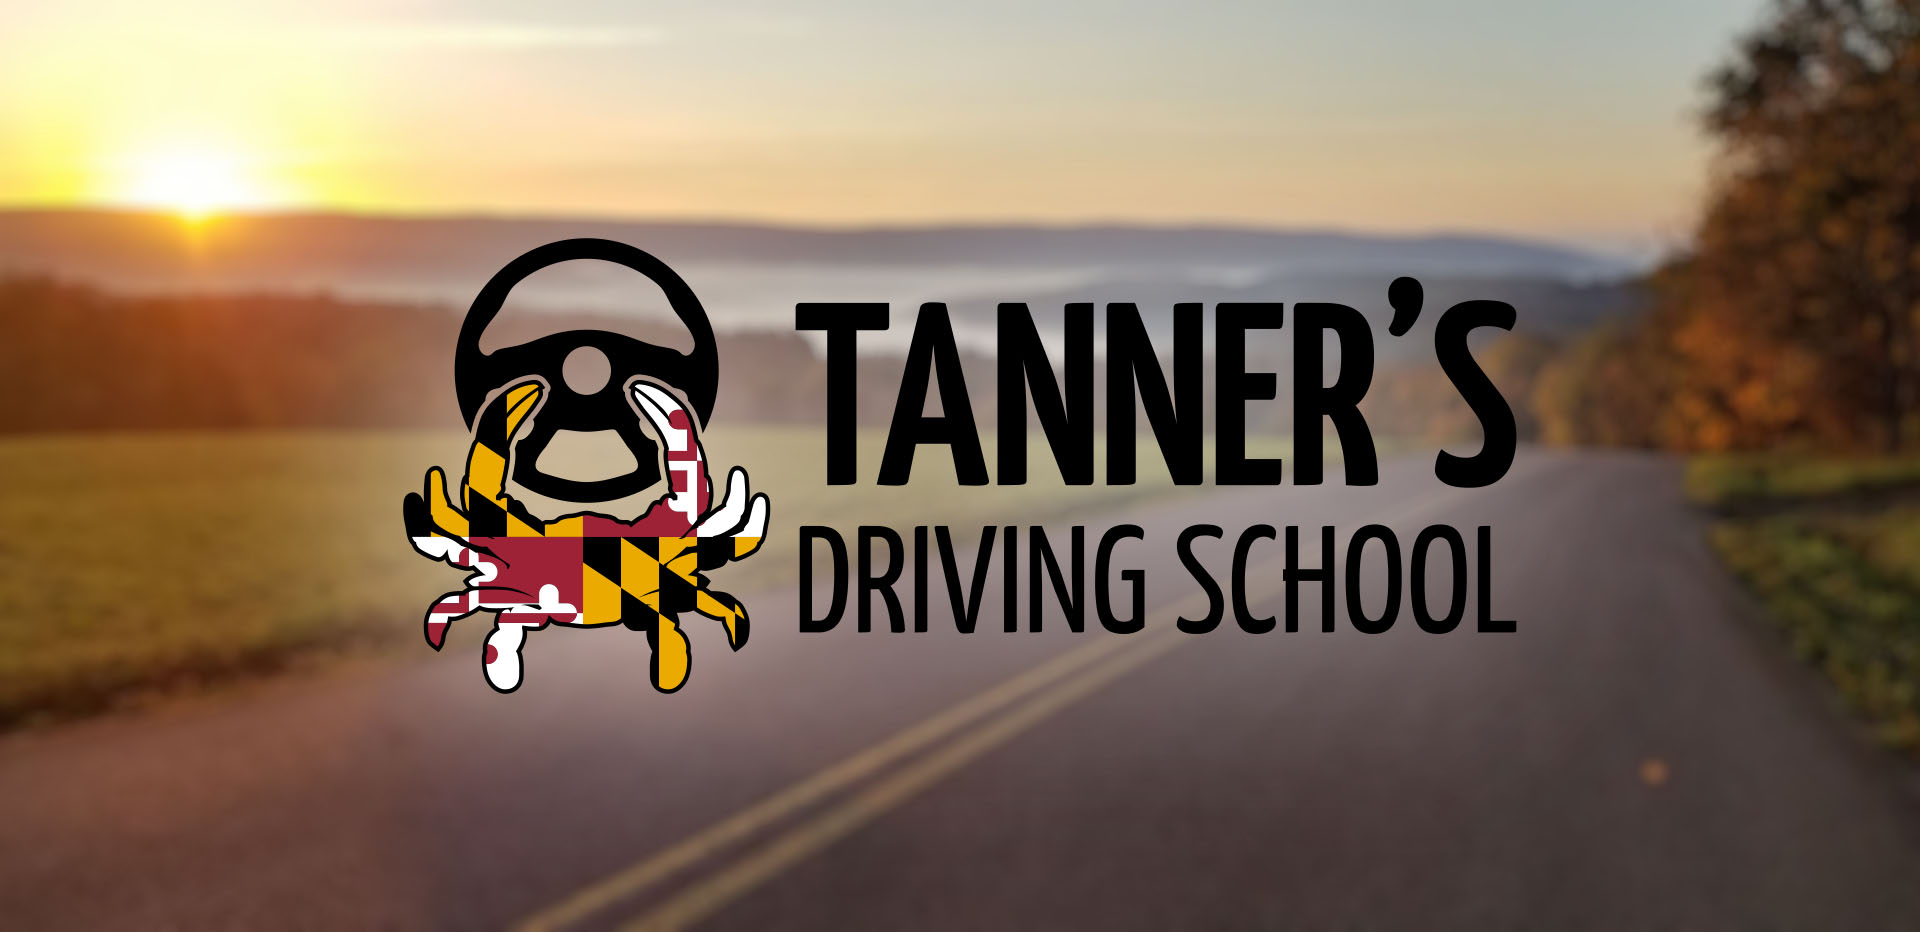
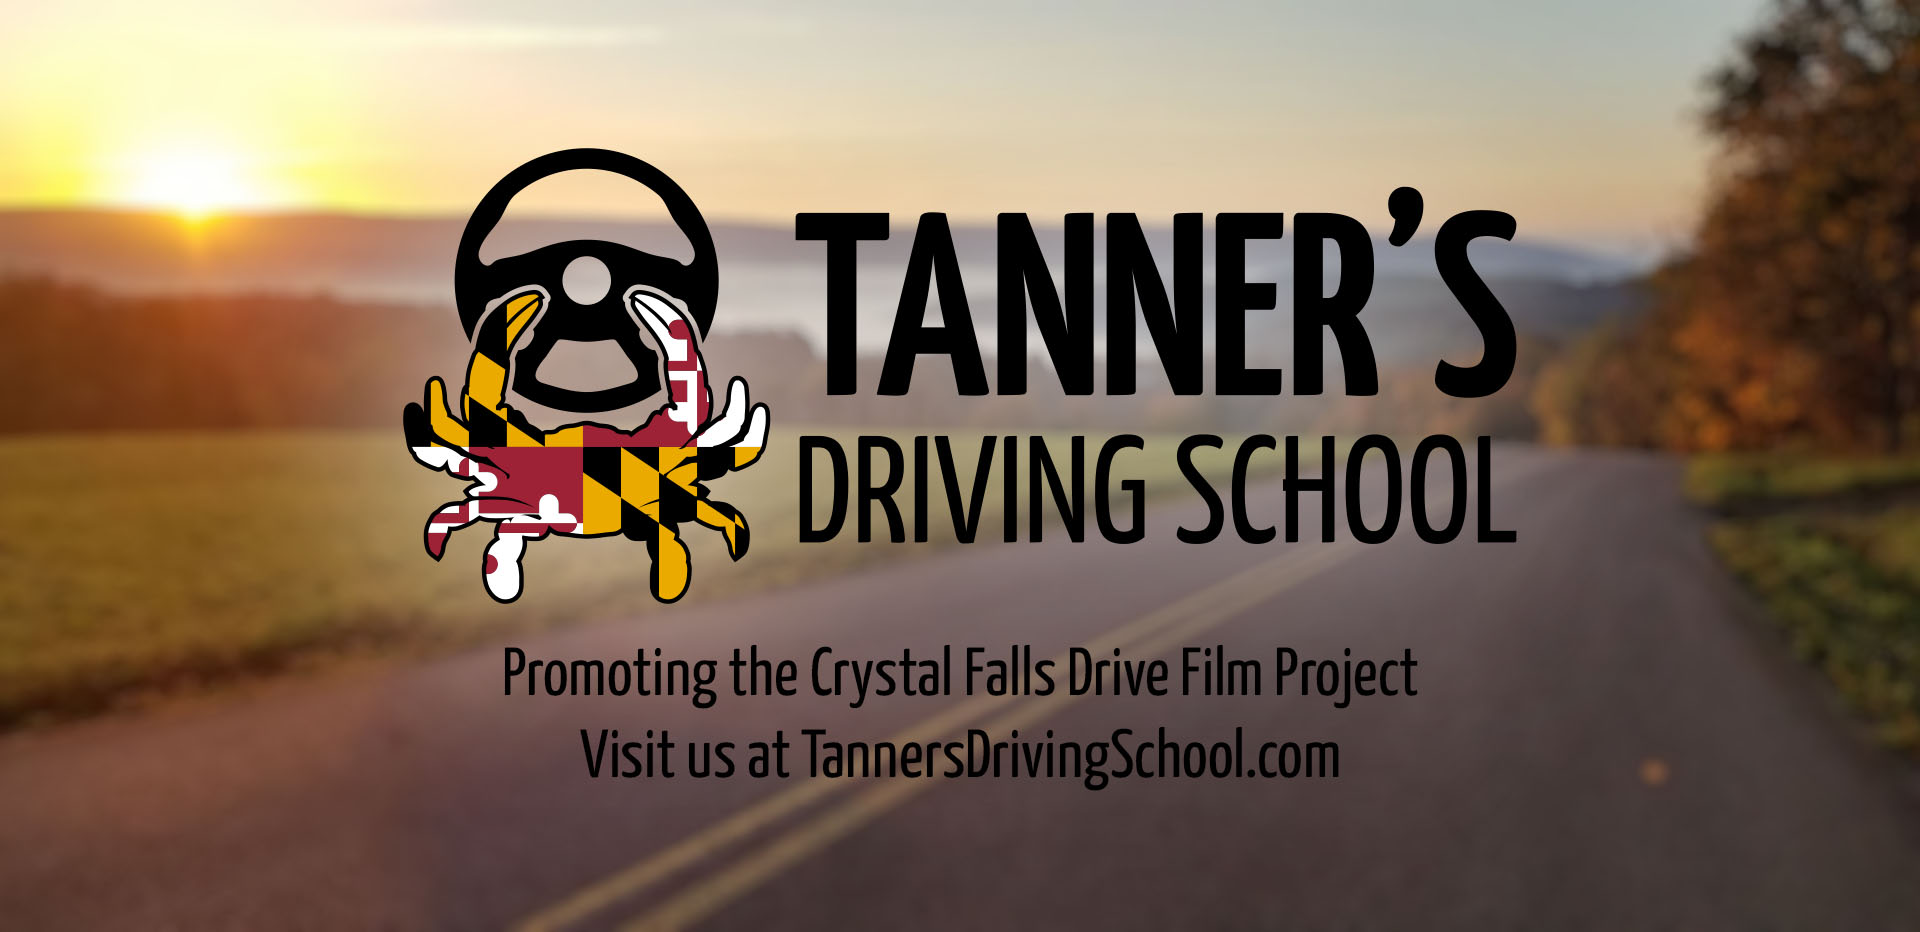
Improvements to SEO tags
Updated description and social image.

Changed region(s): [[0.1875, 0.1556, 0.8125, 0.8401]]

diff --git a/index.html b/index.html
@@ -101,7 +101,7 @@ image: img/social-image.jpg
         <h1 id="about-us" class="pb-2 fw-bold border-bottom">What is this website?</h1>
         <p class="lead">This website is part of the marketing campaign for a film project currently entitled "Crystal Falls Drive". <b>This is a work of fiction.</b> Names, characters, business, events and incidents on this site are the products of the creative team's imagination and artistry. Any resemblance to actual persons, living or dead, or actual events is purely coincidental. </p>
         <h2 class="pb-2 fw-bold border-bottom">What is Crystal Falls Drive?</h1>
-        <p>Set in the fall of 2007, <i>Crystal Falls Drive</i> is dark comedy following a rural driving instructor as he struggles to keep a failing business afloat and help his teenage students cope with a local tragedy. It is a story incredibly near and dear to the hearts of our creative team, focusing on raising suicide awareness and prevention specifically in the teenage population. </p>
+        <p>Set in the fall of 2007, <i>Crystal Falls Drive</i> is dark comedy following a rural driving instructor as he struggles to keep a failing business afloat and help his teenage students cope with a local tragedy. It is a story incredibly near and dear to the hearts of our creative team, focused on raising awareness for suicide prevention specifically in the teenage population. </p>
         <p>Through our initial fundraising efforts we have submitted our screenplay to various competitions including the prestigious Academy Nicholl Fellowships and the Austin Film Festival. Our current goal is to continue fundraising while completing video shorts as an online web series as well as a full length theatrical trailer. Thank you for your continued support in helping us create and share our vision!</p>
         <p>Please visit our <a href="https://www.kickstarter.com/projects/victorpekar/crystal-falls-drive">Kickstarter</a> to support this project.</p>
         <iframe src="https://www.kickstarter.com/projects/victorpekar/crystal-falls-drive/widget/card.html?v=2" width="220" height="420" frameborder="0" scrolling="no"></iframe>
